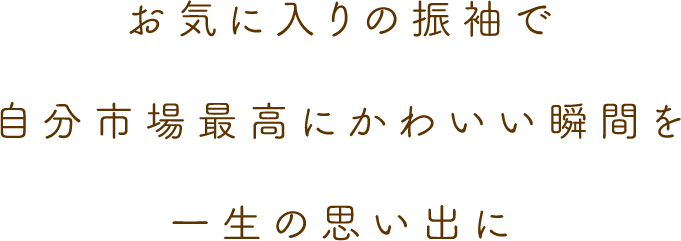
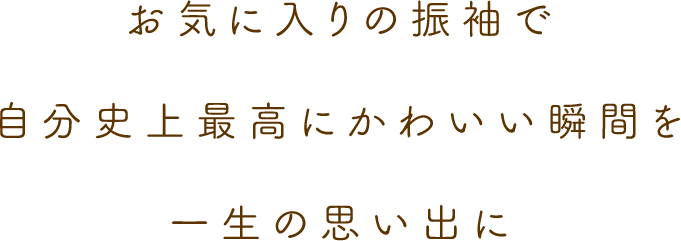
CSS修正

diff --git a/public/rcs_seijin/index.html b/public/rcs_seijin/index.html
@@ -5,10 +5,11 @@
 	<meta http-equiv="Content-Type" content="text/html; charset=utf-8">
 	<title>成人式展示会｜ロイヤルチェスター佐賀</title>
 	<meta property="og:title" content="成人式展示会｜ロイヤルチェスター佐賀"/>
-	<meta property="og:description" content="成人式展示会｜ロイヤルチェスター佐賀"/>
+	<meta property="og:description" content="一生に一度の晴れ姿- 
+	成人式展示会｜ロイヤルチェスター佐賀"/>
 	<meta property="og:image" content="https://memolead-lp-665477084949.asia-northeast1.run.app/public/rcs_seijin/_assets/img/ogp.png"/>
 	<link rel="stylesheet" type="text/css" href="./_assets/css/common.css">
-	<link rel="stylesheet" type="text/css" href="./_assets/css/imagehover/imagehover.css">
+	<!-- <link rel="stylesheet" type="text/css" href="./_assets/css/imagehover/imagehover.css"> -->
 	<link rel="stylesheet" type="text/css" href="./_assets/js/wow/css/libs/animate.css">
 	<link rel="stylesheet" type="text/css" href="./_assets/css/index.css">
 
@@ -26,14 +27,14 @@
 					<picture>
 						<source src="./_assets/img/webp/top.webp" type="image/webp">
 						<source src="./_assets/img/top.png" type="image/png">
-						<img src="./_assets/img/top.png" width="100%" height="auto" alt="ロイヤルチェスター佐賀成人式展示会">
+						<img src="./_assets/img/top.png" width="100%" height="auto" alt="ロイヤルチェスター佐賀成人式展示会イメージ">
 					</picture>
 				</div>
 				<div class="abItemTitle move animate__animated">
 					<picture>
 						<source src="./_assets/img/webp/title.webp" type="image/webp">
 						<source src="./_assets/img/title.png" type="image/png">
-						<img src="./_assets/img/title.png" width="100%" height="auto" alt="ロイヤルチェスター佐賀成人式展示会">
+						<img src="./_assets/img/title.png" width="100%" height="auto" alt="2027年ロイヤルチェスター佐賀成人式展示会">
 					</picture>
 				</div>
 			</div>
@@ -44,7 +45,7 @@
 				<picture>
 					<source src="./_assets/img/webp/intro.webp" type="image/webp">
 					<source src="./_assets/img/intro.png" type="image/png">
-					<img src="./_assets/img/intro.png" width="100%" height="auto" alt="ロイヤルチェスター佐賀成人式展示会">
+					<img src="./_assets/img/intro.png" width="100%" height="auto" alt="運命の１着に出会う日、最高の１着をあなたに">
 				</picture>
 			</div>
 		</div>
@@ -53,7 +54,7 @@
 				<picture>
 					<source src="./_assets/img/webp/tokuten.webp?1" type="image/webp">
 					<source src="./_assets/img/tokuten.png?1" type="image/png">
-					<img src="./_assets/img/tokuten.png?1" width="100%" height="auto" alt="ロイヤルチェスター佐賀成人式展示会">
+					<img src="./_assets/img/tokuten.png?1" width="100%" height="auto" alt="早期予約特典衣装ブランド追加料無料など">
 				</picture>
 			</div>
 		</div>
@@ -63,16 +64,16 @@
 				<picture>
 				<source src="./_assets/img/webp/osusume.webp?1" type="image/webp">
 				<source src="./_assets/img/osusume.png?1" type="image/png">
-				<img src="./_assets/img/osusume.png?1" width="100%" height="auto" alt="ロイヤルチェスター佐賀成人式展示会">
+				<img src="./_assets/img/osusume.png?1" width="100%" height="auto" alt="おすすめな理由は式場内の前撮、ブライダル専属のスタッフ、豊富な振袖ラインナップ">
 				</picture>
 			</div>
 		</div>
 		<div class="move animate__animated">
-			<div class="wrap">
+			<div class="titleWrap">
 				<picture>
 					<source src="./_assets/img/webp/title01.webp?1" type="image/webp">
 					<source src="./_assets/img/title01.png?1" type="image/png">
-					<img src="./_assets/img/title01.png?1" width="100%" height="auto" alt="ロイヤルチェスター佐賀成人式展示会">
+					<img src="./_assets/img/title01.png?1" width="100%" height="auto" alt="27年度展示会予約限定">
 				</picture>
 			</div>
 		</div>
@@ -81,16 +82,16 @@
 				<picture>
 					<source src="./_assets/img/webp/01_con.webp?1" type="image/webp">
 					<source src="./_assets/img/01_con.png?1" type="image/png">
-					<img src="./_assets/img/01_con.png?1" width="100%" height="auto" alt="ロイヤルチェスター佐賀成人式展示会">
+					<img src="./_assets/img/01_con.png?1" width="100%" height="auto" alt="前撮りプラン女性120,000円から、男性80,000円から">
 				</picture>
 			</div>
 		</div>
 		<div class="move animate__animated">
-			<div class="wrap">
+			<div class="titleWrap">
 				<picture>
 					<source src="./_assets/img/webp/title02.webp?1" type="image/webp">
 					<source src="./_assets/img/title02.png?1" type="image/png">
-					<img src="./_assets/img/title02.png?1" width="100%" height="auto" alt="ロイヤルチェスター佐賀成人式展示会">
+					<img src="./_assets/img/title02.png?1" width="100%" height="auto" alt="当日のみの方へ">
 				</picture>
 			</div>
 		</div>
@@ -99,43 +100,41 @@
 				<picture>
 					<source src="./_assets/img/webp/02_con.webp?1" type="image/webp">
 					<source src="./_assets/img/02_con.png?1" type="image/png">
-					<img src="./_assets/img/02_con.png?1" width="100%" height="auto" alt="ロイヤルチェスター佐賀成人式展示会">
+					<img src="./_assets/img/02_con.png?1" width="100%" height="auto" alt="衣装レンタルプラン55,000円〜">
 				</picture>
 			</div>
 		</div>
 		<div class="move animate__animated">
-			<div class="wrap">
+			<div class="titleWrap">
 				<picture>
 					<source src="./_assets/img/webp/title03.webp?1" type="image/webp">
 					<source src="./_assets/img/title03.png?1" type="image/png">
-					<img src="./_assets/img/title03.png?1" width="100%" height="auto" alt="ロイヤルチェスター佐賀成人式展示会">
+					<img src="./_assets/img/title03.png?1" width="100%" height="auto" alt="前撮りも当日も希望の方へ">
 				</picture>
 			</div>
 		</div>
-		<div class="move animate__animated">
+		<div class="move animate__animated pink">
 			<div class="wrap">
 				<picture>
 					<source src="./_assets/img/webp/title03-1.webp?1" type="image/webp">
 					<source src="./_assets/img/title03-1.png?1" type="image/png">
-					<img src="./_assets/img/title03-1.png?1" width="100%" height="auto" alt="ロイヤルチェスター佐賀成人式展示会">
+					<img src="./_assets/img/title03-1.png?1" width="100%" height="auto" alt="このサイト限定">
 				</picture>
 			</div>
-		</div>
-		<div class="move animate__animated">
 			<div class="wrap">
 				<picture>
 					<source src="./_assets/img/webp/03_con.webp?1" type="image/webp">
 					<source src="./_assets/img/03_con.png?1" type="image/png">
-					<img src="./_assets/img/03_con.png?1" width="100%" height="auto" alt="ロイヤルチェスター佐賀成人式展示会">
+					<img src="./_assets/img/03_con.png?1" width="100%" height="auto" alt="このサイト限定プランで264,000円">
 				</picture>
 			</div>
 		</div>
 		<div class="move animate__animated">
-			<div class="wrap">
+			<div class="titleWrap">
 				<picture>
 					<source src="./_assets/img/webp/title04.webp?1" type="image/webp">
 					<source src="./_assets/img/title04.png?1" type="image/png">
-					<img src="./_assets/img/title04.png?1" width="100%" height="auto" alt="ロイヤルチェスター佐賀成人式展示会">
+					<img src="./_assets/img/title04.png?1" width="100%" height="auto" alt="TIARA BOUTIQUE PRESENTS">
 				</picture>
 			</div>
 		</div>
@@ -144,7 +143,45 @@
 				<picture>
 					<source src="./_assets/img/webp/04_con.webp?1" type="image/webp">
 					<source src="./_assets/img/04_con.png?1" type="image/png">
-					<img src="./_assets/img/04_con.png?1" width="100%" height="auto" alt="ロイヤルチェスター佐賀成人式展示会">
+					<img src="./_assets/img/04_con.png?1" width="100%" height="auto" alt="ロイヤルチェスター佐賀成人式前撮りセット">
+				</picture>
+			</div>
+		</div>
+		<div class="move animate__animated">
+			<div class="wrap_harf">
+				<picture>
+					<source src="./_assets/img/webp/intro2.webp?1" type="image/webp">
+					<source src="./_assets/img/intro2.png?1" type="image/png">
+					<img src="./_assets/img/intro2.png?1" width="100%" height="auto" alt="お気に入りの振袖で自分史上最高にかわいい瞬間を">
+				</picture>
+			</div>
+		</div>
+		<div class="move animate__animated">
+			<div class="wrap">
+				<picture>
+					<source src="./_assets/img/webp/intro2img.webp" type="image/webp">
+					<source src="./_assets/img/intro2img.png" type="image/png">
+					<img src="./_assets/img/intro2img.png" width="100%" height="auto" alt="一生の思い出に">
+				</picture>
+			</div>
+		</div>
+
+		<div class="move animate__animated">
+			<div class="wrap">
+				<picture>
+					<source src="./_assets/img/webp/place.webp" type="image/webp">
+					<source src="./_assets/img/place.png" type="image/png">
+					<img src="./_assets/img/place.png" width="100%" height="auto" alt="日程・日時ロイヤルチェスター佐賀_2/21〜2/23">
+				</picture>
+			</div>
+		</div>
+
+		<div class="move animate__animated">
+			<div class="titleWrap">
+				<picture>
+					<source src="./_assets/img/webp/contact.webp?1" type="image/webp">
+					<source src="./_assets/img/contact.png?1" type="image/png">
+					<img src="./_assets/img/contact.png?1" width="100%" height="auto" alt="ロイヤルチェスター佐賀成人式展示会お問い合わせ">
 				</picture>
 			</div>
 		</div>

diff --git a/public/rcs_seijin/_assets/css/index.css b/public/rcs_seijin/_assets/css/index.css
@@ -1,6 +1,15 @@
 @charset "utf-8";
 @import url('https://fonts.googleapis.com/css?family=Noto+Sans+JP|Noto+Serif+JP&display=swap');
 
+:root {
+  --bg-color: #f5f1ed;
+  --bgP-color: #f08984;
+}
+
+.pink{
+	background-color: var(--bgP-color);
+}
+
 /* --- 基本スタイル --- */
 body {
 	background: #eee;
@@ -44,7 +53,6 @@ a:hover {
 	background-image: url("../img/bg.png");
 	background-color: #fff;
 	background-repeat: repeat;
-	border: 1px solid red;
 }
 
 .abWrap{
@@ -89,6 +97,13 @@ a:hover {
 	display: block;
 	width: 80%;
 	margin: 15px auto;
+	padding: 20px 0;
+}
+.titleWrap{
+	display: block;
+	width: 70%;
+	margin: 0px auto;
+	padding: 15px 0;
 }
 .wrap_osusume{
 	background-image: url("../img/osusume-bg.png");
